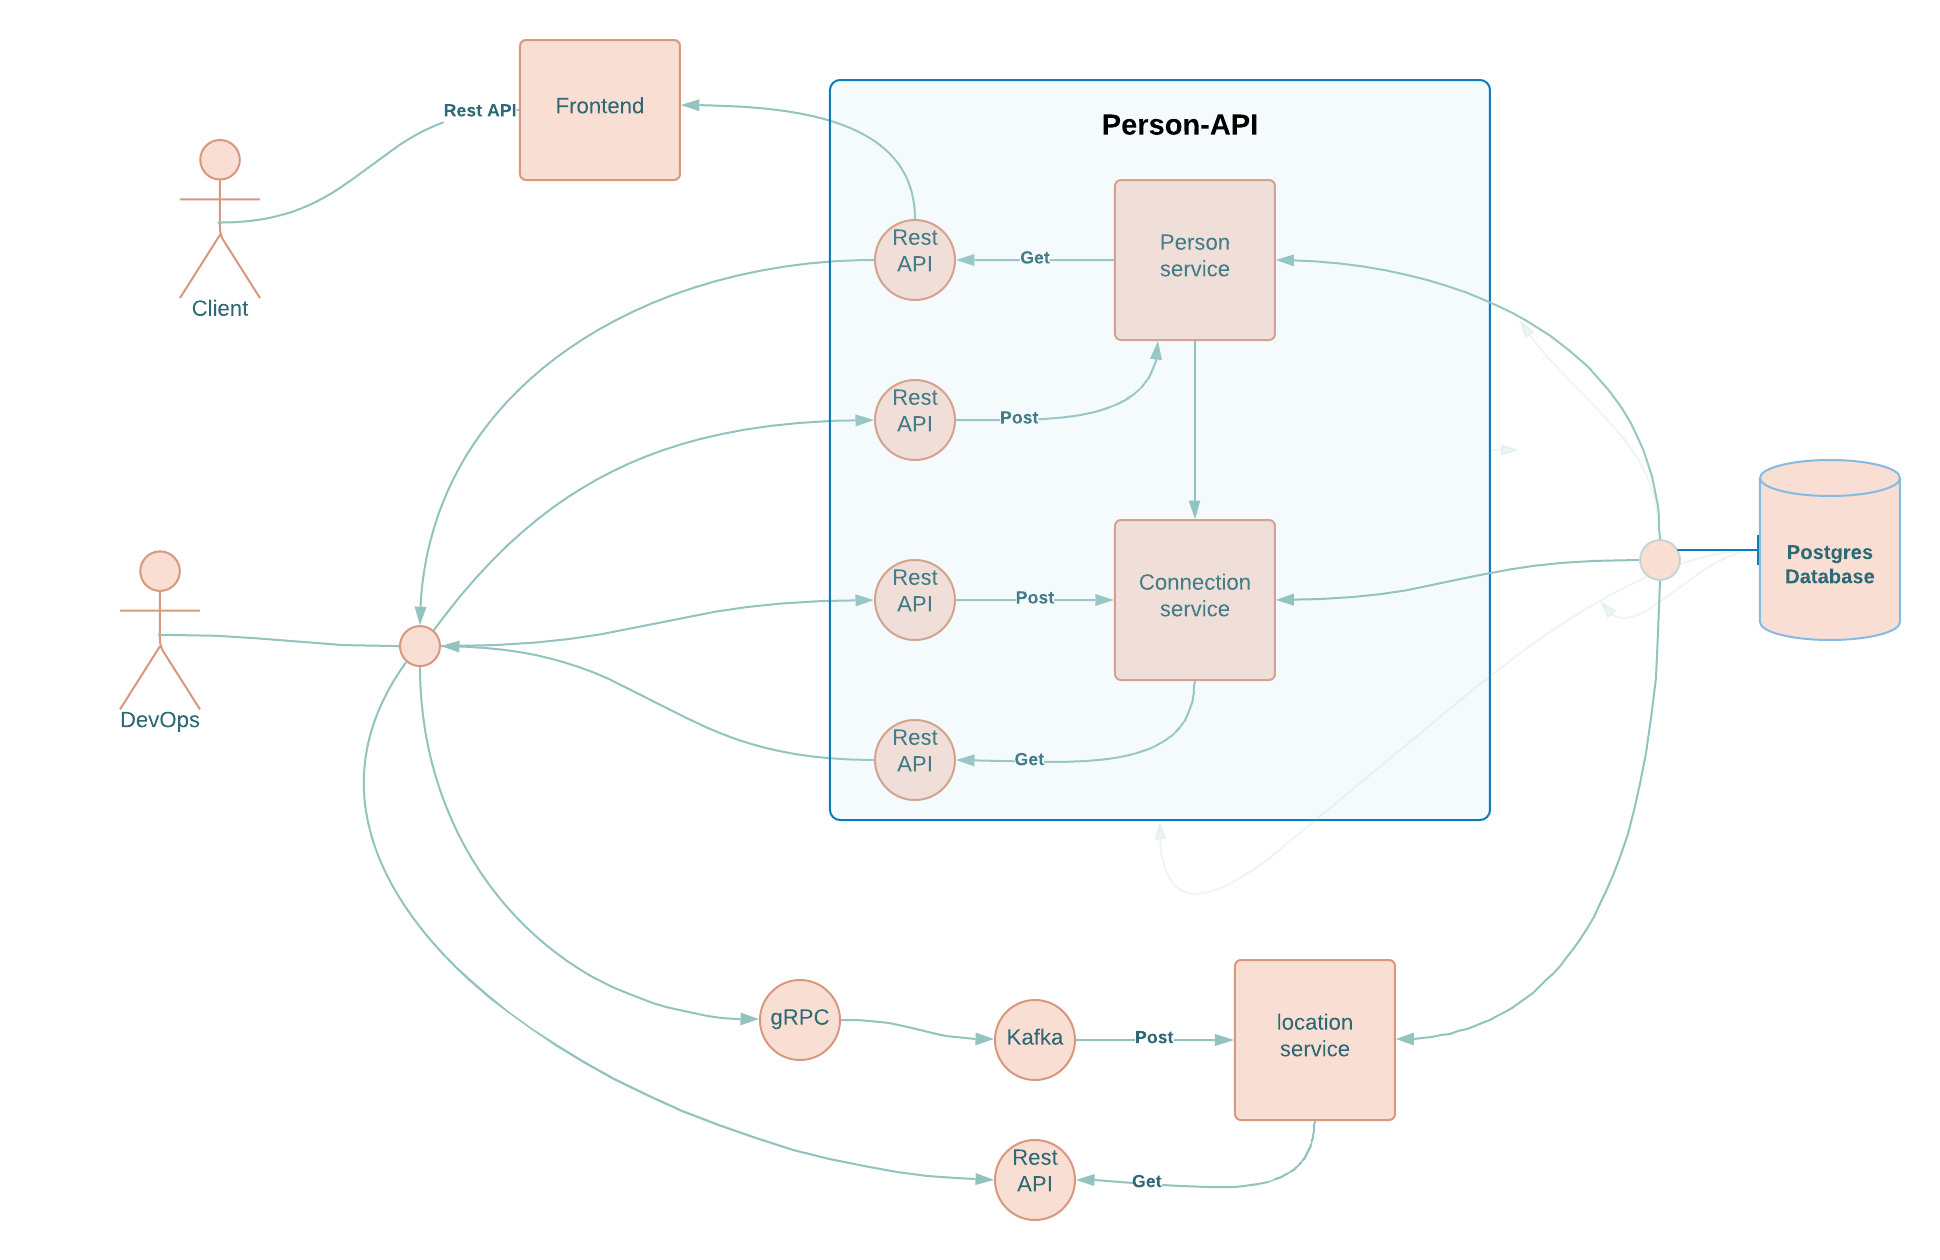
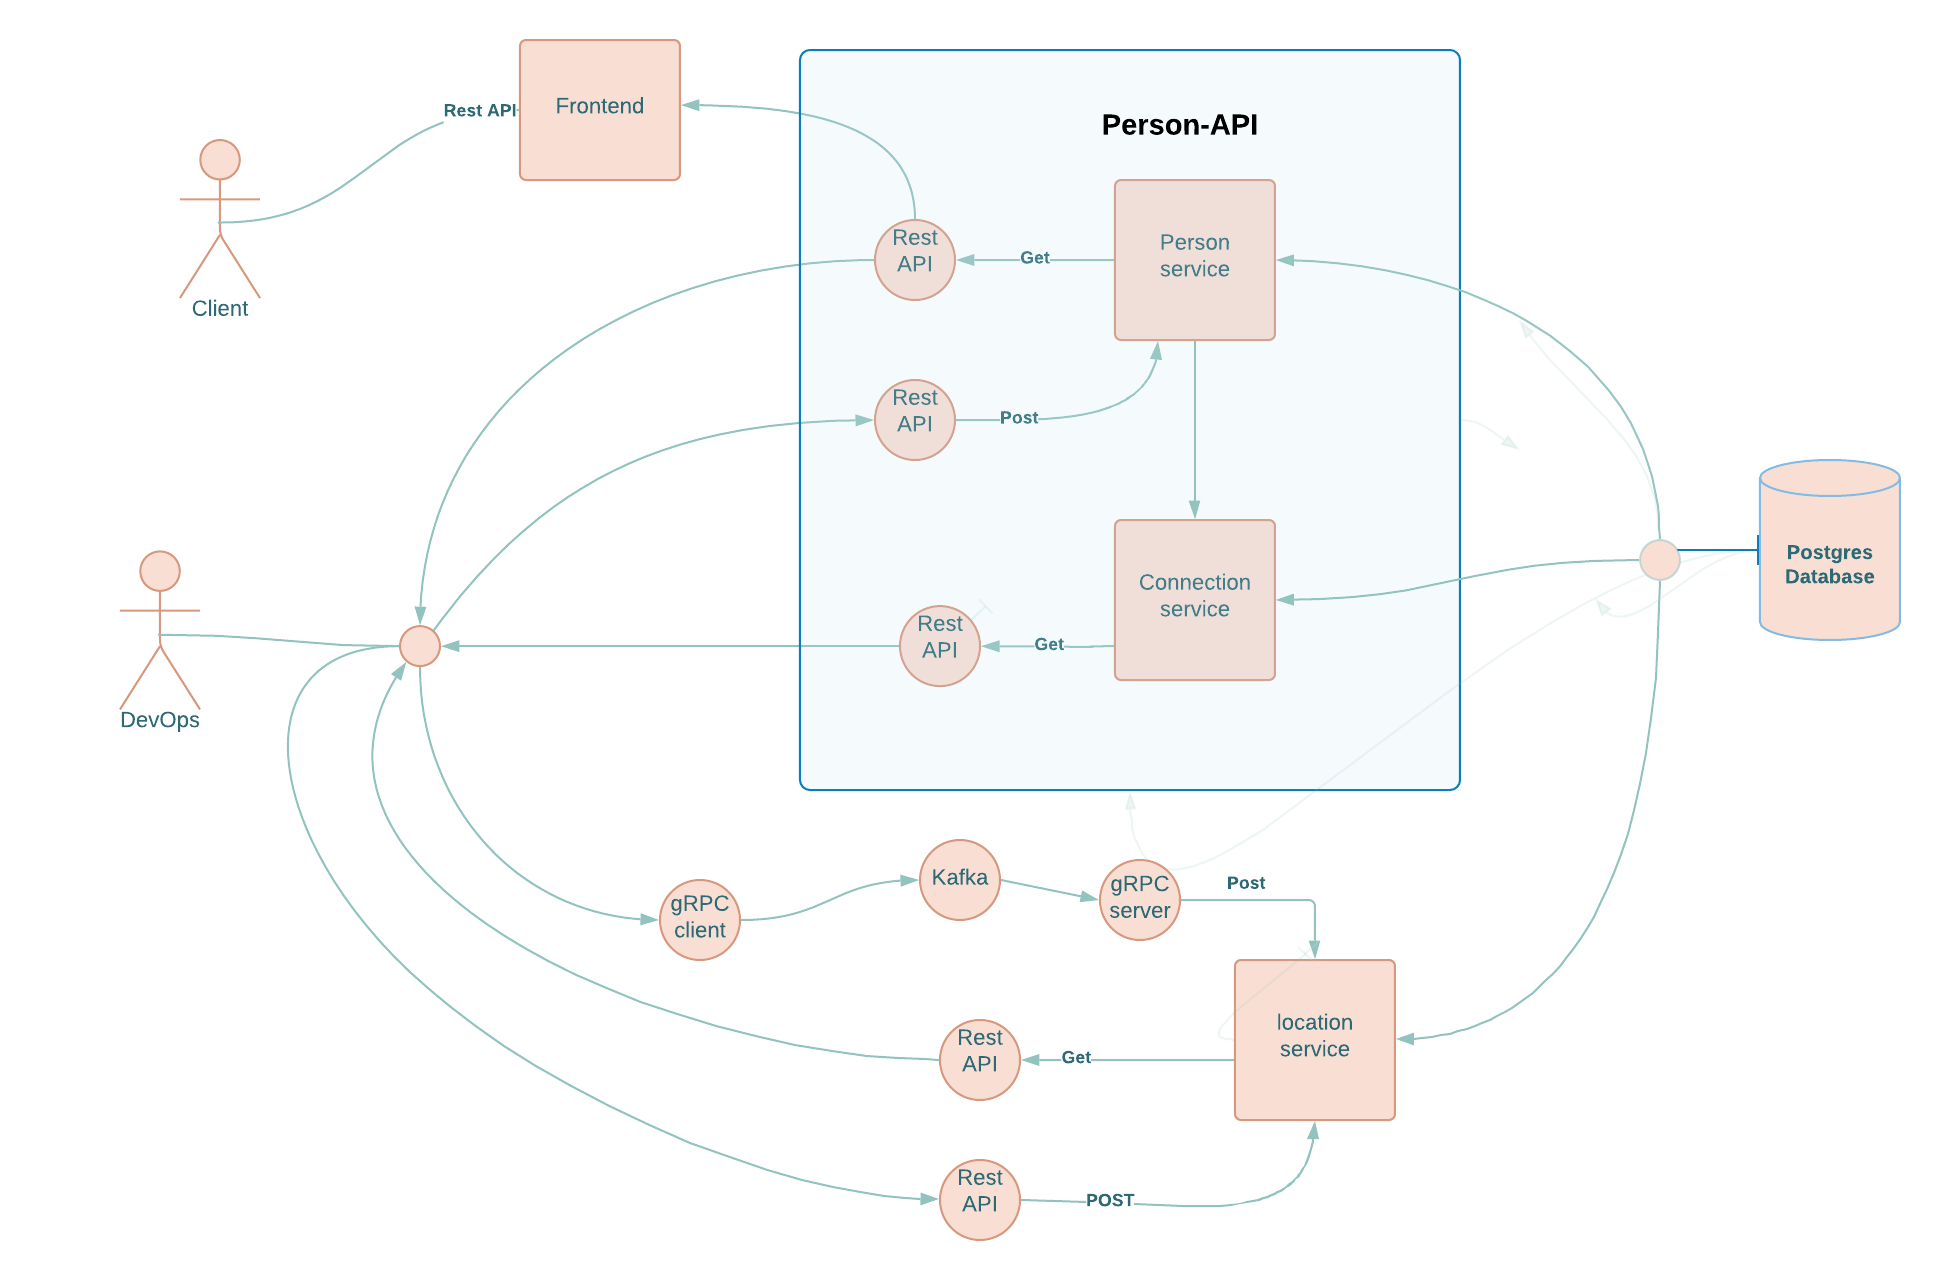
solve consumer error

diff --git a/modules/create-location-grpc/server.py b/modules/create-location-grpc/server.py
@@ -4,7 +4,9 @@ import json
 
 from datetime import datetime
 from concurrent import futures
-from kafka import KafkaProducer
+from kafka import KafkaConsumer
+from google.protobuf.json_format import Parse
+
 
 import grpc
 import urllib3
@@ -17,34 +19,81 @@ from google.protobuf.timestamp_pb2 import Timestamp
 class LocationServicer(location_pb2_grpc.LocationServiceServicer):
     def Create(self, request, context):
         logging.info("create-location-grpc")
-        # extract dateTime from timestamp 
-        timestamp : Timestamp = request.creation_time
-        creation_time = datetime.fromtimestamp(timestamp.seconds + timestamp.nanos/1e9)
 
-        # payload to save in database
-        request_payload = {
-            "person_id": int(request.person_id),
-            "longitude": str(request.longitude),
-            "latitude": str(request.latitude),
-            "creation_time": str(creation_time)
-        }
+        # setup for consumer
+        consumer = KafkaConsumer(
+        'locations',
+        bootstrap_servers=['kafka-service:9092'],
+        auto_offset_reset='earliest',
+        enable_auto_commit=True,
+        group_id='my-group',
+        # request_timeout_ms=30000,
+        # max_poll_records=1
+        )
+        logging.info(f"consumer")
 
-        #send payload to kafka producer
-        KAFKA_SERVER = '10.43.188.176:9092'
-        producer = KafkaProducer(bootstrap_servers=KAFKA_SERVER)
-        kafka_data = json.dumps(request_payload).encode()
-        producer.send("locations", kafka_data)
-        producer.flush()
 
-        # use urllib3 to send new location to location service to save it into database
-        http = urllib3.PoolManager()
-        url = 'http://10.42.0.136:5000/api/locations'
-        req = http.request('POST', url,
-                 headers={'Content-Type': 'application/json'})
-        logging.info(f"request data : {request_payload}")
-        logging.info(f"request  : {req.data}")
+        # get data from consumer
+        location = {}
+        for message in consumer:
+            logging.info(f"message before  : {message}")
+            message = message.value.decode('utf-8')
+            logging.info(f"message after  : {message}")
+            location=location_pb2.LocationMessage()
+            Parse(str(message), location)
+            #locations.append(location)
+            logging.info(f"locations  : {location}")
 
-        # return responce to client
+            logging.info(f"after  : loop")
+            # use urllib3 to send new location to location service to save it into database
+            http = urllib3.PoolManager()
+            url = 'http://location-api:5000/api/locations'
+            # for i in range(len(locations)):
+
+            # extract dateTime from timestamp 
+            timestamp : Timestamp = location.creation_time
+            creation_time = datetime.fromtimestamp(timestamp.seconds + timestamp.nanos/1e9)
+
+
+            
+            logging.info(location.person_id)
+            # logging.info(location['person_id'])
+
+            request_payload = {
+                "person_id": location.person_id,
+                "longitude": str(location.longitude),
+                "latitude": str(location.longitude),
+                "creation_time": str(creation_time)
+                }
+
+            logging.info(f"request {request_payload}")
+            logging.info(f"request dumbs  {json.dumps(request_payload)}")
+
+            req = http.request('POST', url, body=json.dumps(request_payload), headers={'Content-Type': 'application/json'})
+            logging.info(f"request  : {req.data}")
+        logging.info(f" {location} Messages founded ")
+
+
+            
+            
+
+        # request_payload = {
+        #     "person_id": int(locations.index(i).person_id),
+        #     "longitude":str(locations.index(i).longitude),
+        #     "latitude": str(locations.index(i).latitude),
+        #     "creation_time": str(creation_time)
+        # }
+
+
+
+            # # create request data to post in Location Service 
+            # request_payload = {
+            # "person_id": int(locations[i]['person_id']),
+            # "longitude": str(locations[i]['longitude']),
+            # "latitude": str(locations[i]['latitude']),
+            # "creation_time": str(creation_time)
+            # }
+
         responce = {
             "person_id": int(request.person_id),
             "longitude": request.longitude,

diff --git a/modules/create-location-grpc/client.py b/modules/create-location-grpc/client.py
@@ -1,5 +1,10 @@
 import logging
+import json
+
+from google.protobuf.json_format import MessageToJson
 from google.protobuf.timestamp_pb2 import Timestamp
+from kafka import KafkaProducer
+
 import grpc
 import location_pb2
 import location_pb2_grpc
@@ -7,9 +12,8 @@ import time
 
 def run():
     logging.getLogger("run")
-    with grpc.insecure_channel('localhost:30100') as channel:
+    with grpc.insecure_channel('location-grpc:50051') as channel:
         stub = location_pb2_grpc.LocationServiceStub(channel)
-        logging.getLogger("create-location-grpc")
         print("-------------- Client --------------")
 
         now = time.time()
@@ -22,12 +26,19 @@ def run():
             latitude =  99.0 ,
             longitude =  44.5, 
             creation_time = timestamp
-        )        
+        )
+
+        #send payload to kafka producer
+        KAFKA_SERVER = 'kafka-service:9092'
+        producer = KafkaProducer(bootstrap_servers=KAFKA_SERVER)
+        kafka_data = MessageToJson(location).encode()
+        producer.send("locations", kafka_data)
+        producer.flush()
+
         response = stub.Create(location)
-        print(response)
         logging.info("responces: "+ str(response))
       
 
 if __name__ == '__main__':
-    logging.basicConfig()
+    logging.basicConfig(level=logging.INFO)
     run()

diff --git a/modules/location/app/udaconnect/controllers.py b/modules/location/app/udaconnect/controllers.py
@@ -1,13 +1,9 @@
-
-import json
-
 from app.udaconnect.models import Location
 from app.udaconnect.schemas import  LocationSchema
 from app.udaconnect.services import  LocationService
 from flask_accepts import accepts, responds
 from flask_restx import Namespace, Resource
-from kafka import KafkaConsumer
-
+from flask import request
 
 DATE_FORMAT = "%Y-%m-%d"
 
@@ -27,23 +23,8 @@ class LocationResource(Resource):
     @accepts(schema=LocationSchema)
     @responds(schema=LocationSchema)
     def post(self) -> Location:
-
-        # setup for consumer
-        consumer = KafkaConsumer(
-        'locations',
-        bootstrap_servers=['10.43.188.176:9092'],
-        auto_offset_reset='earliest',
-        enable_auto_commit=True,
-        group_id='my-group',
-        max_poll_records=1
-        )
-
-        # get data from consumer
-        location = {}
-        for message in consumer:
-            message = message.value.decode('utf-8')
-            location = json.loads(message)
-            location: Location = LocationService.create(location)
+        request.get_json()
+        location: Location = LocationService.create(request.get_json())
         return location
 
     @responds(schema=LocationSchema)

diff --git a/README.md b/README.md
@@ -98,7 +98,7 @@ These pages should also load on your web browser:
 
 
 # gRPC and kafka
-if you want to  post new Location  to database you should deploy kafka in kubernetes and create new topic  `locations` and run client from localhost
+if you want to  post new Location  to database you should deploy kafka in kubernetes and create new topic  `locations` and run client inside pod of lcreate-ocation-grpc useing gRPC to post new Location to Location Service and save in database
 
 ## Configs and Secrets
 In `deployment/db-secret.yaml`, the secret variable is `d293aW1zb3NlY3VyZQ==`. The value is simply encoded and not encrypted -- this is ***not*** secure! Anyone can decode it to see what it is.
